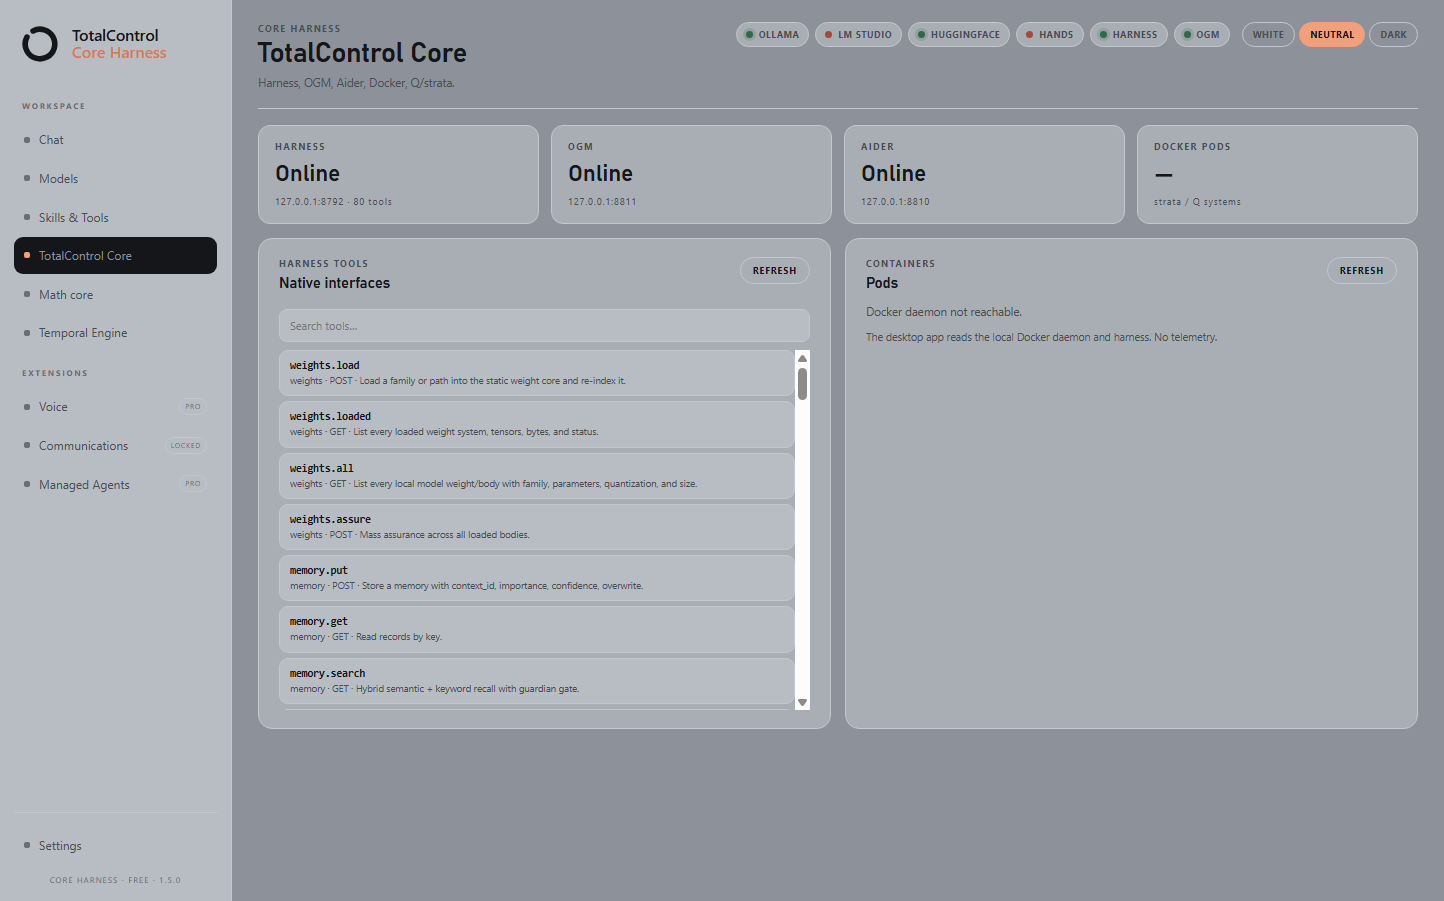
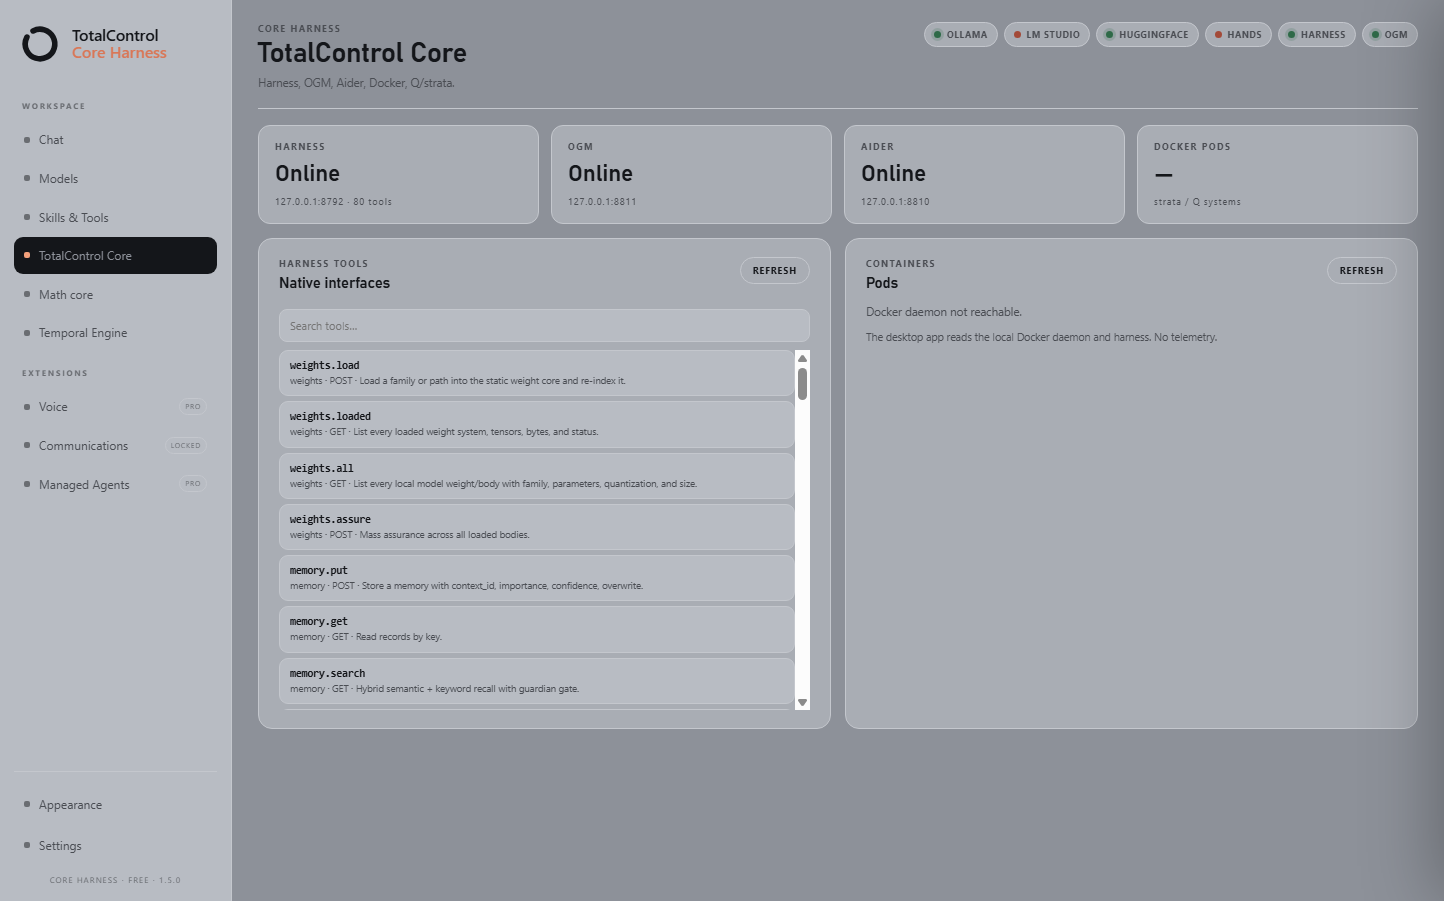
Add fog-clear appearance panel, font size, refreshed client images

diff --git a/shop.html b/shop.html
@@ -256,6 +256,11 @@
                 <a class="btn" href="https://github.com/oroboroslabs-ai/anthropic/releases/download/totalcontrol-core-harness-v1.5.0/TotalControl-Core-Harness-Paid-1.5.0-linux-x64.tar.gz">↓ Paid 1.5.0 · Linux x64</a>
             </div>
         </div>
+        <div style="text-align:center;margin-top:26px">
+            <div class="eyebrow2" style="margin-bottom:8px">APPEARANCE PANEL</div>
+            <img src="desktop-appearance.png" alt="Fog-clear appearance panel with theme and font size" style="width:100%;max-width:780px;border-radius:14px;border:1px solid rgba(255,255,255,.14)">
+            <p class="note" style="margin-top:8px">Theme and font size live in a fog-clear panel that opens from the left rail and floats over the right side. Keyboard: Ctrl + / Ctrl − / Ctrl 0.</p>
+        </div>
     </section>
 
     <div class="cards">
